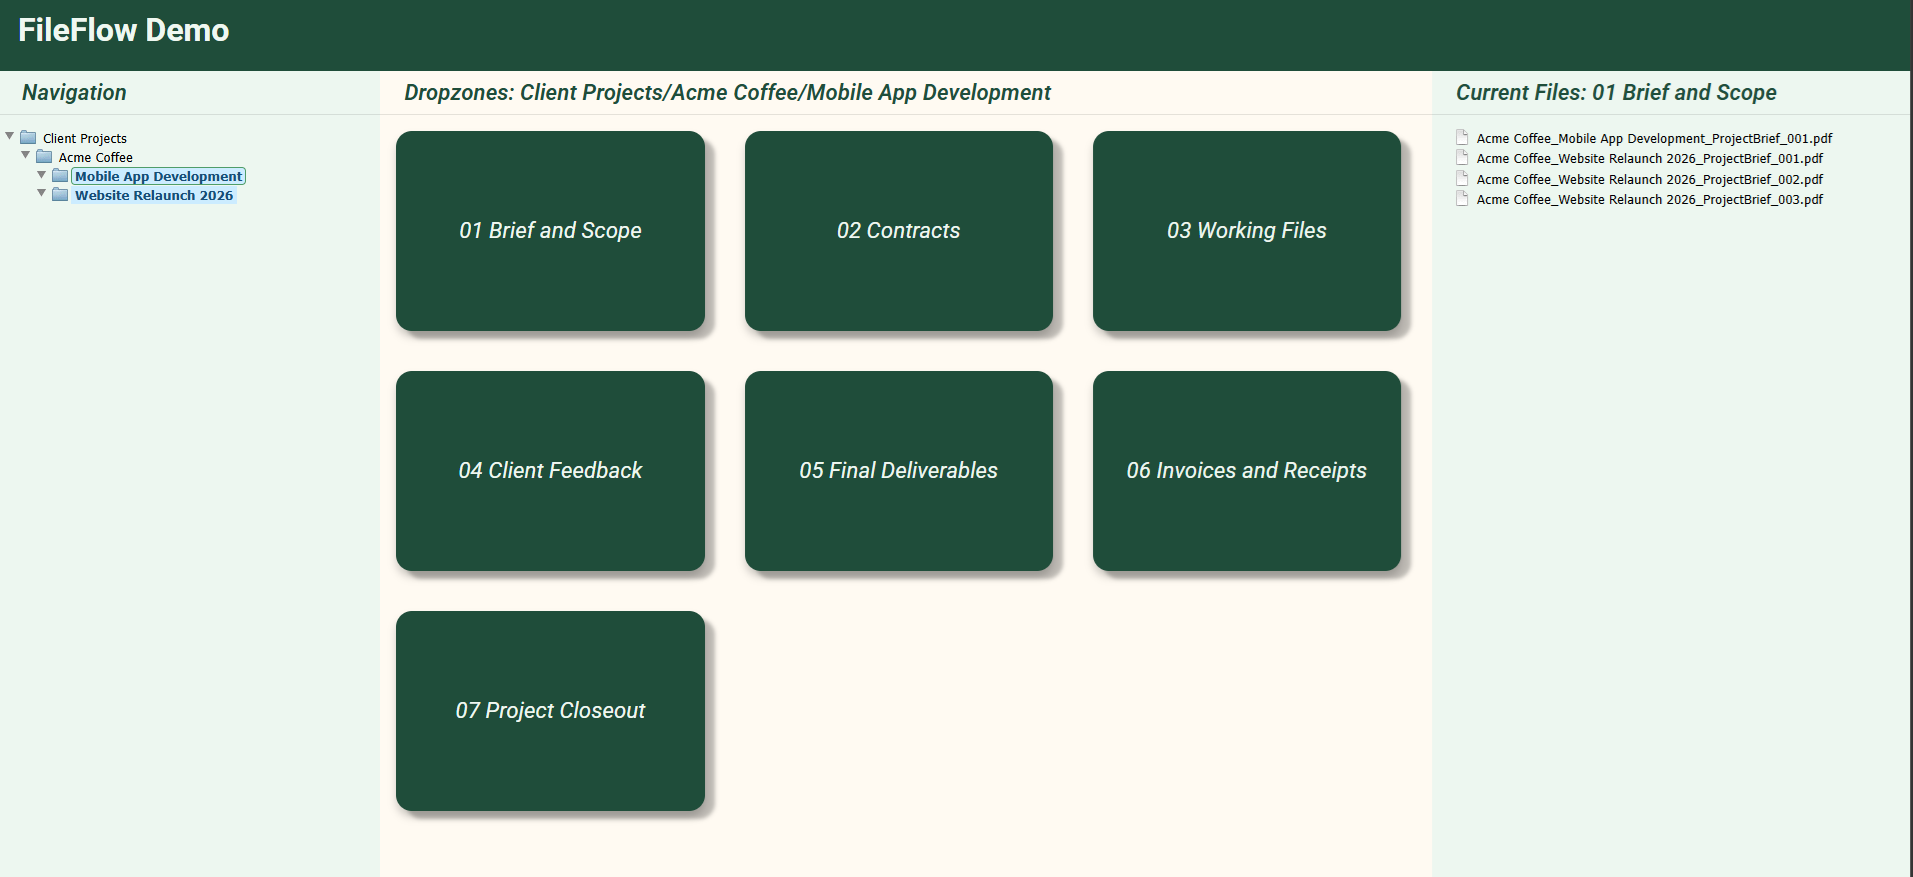
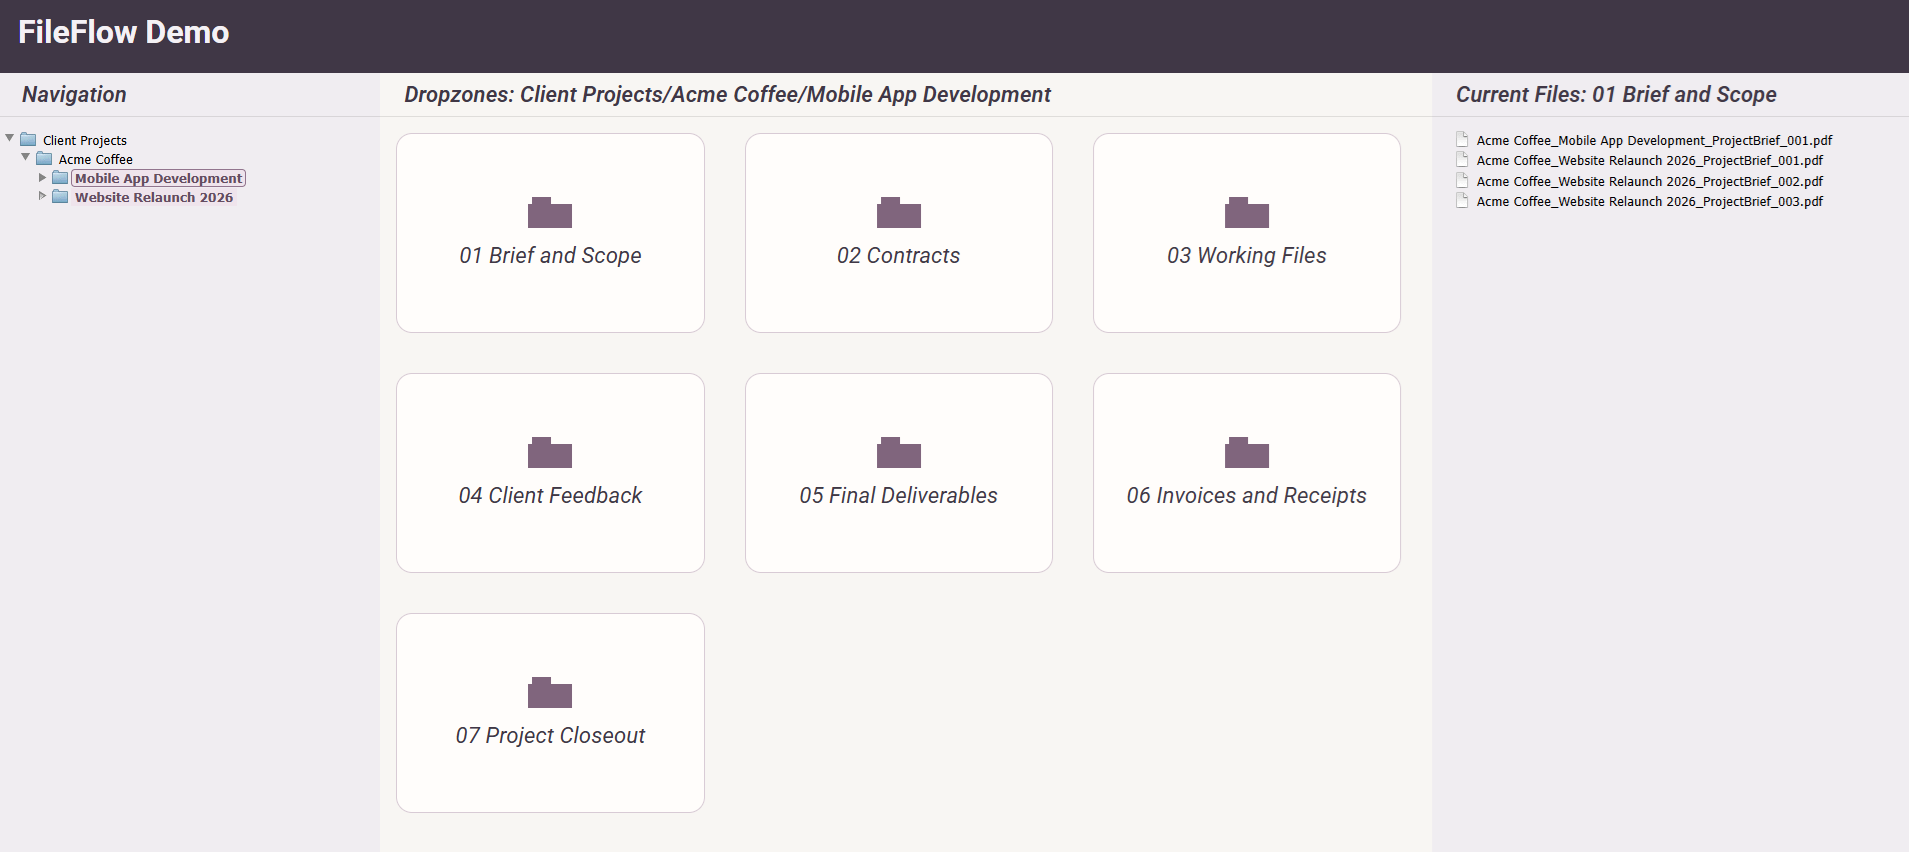
Clarify FileFlow audience and update screenshot

diff --git a/fileflow.html b/fileflow.html
@@ -80,6 +80,24 @@
           over each file.
         </p>
 
+        <h2>Who it’s for</h2>
+        <p>
+          FileFlow is for teams that still handle files manually but need a
+          dependable, shared way to name and locate them. It works best where a
+          consistent folder hierarchy is practical and people need to find the
+          same kinds of documents in the same places.
+        </p>
+        <p>
+          That could include departments managing multiple projects, grants,
+          client engagements, sales opportunities or programmes. It can also
+          help an individual bring order to recurring files without adopting a
+          full document-management system.
+        </p>
+        <p>
+          FileFlow does not replace the existing folder structure; it makes
+          that structure easier to use consistently.
+        </p>
+
         <h2>Why I built it</h2>
         <p>
           I built FileFlow after seeing how much reliable filing depended on
